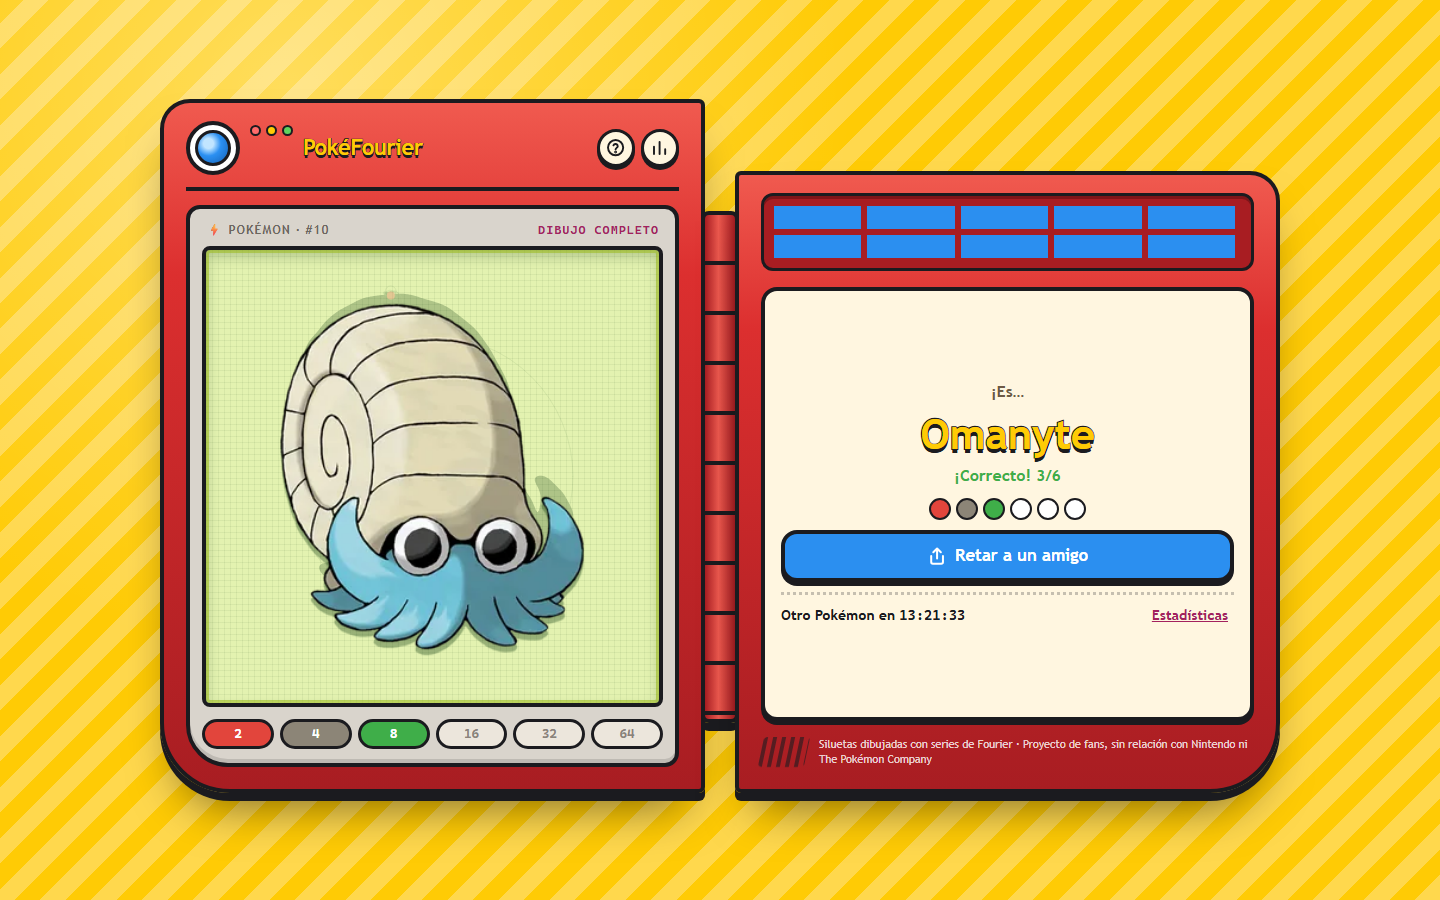
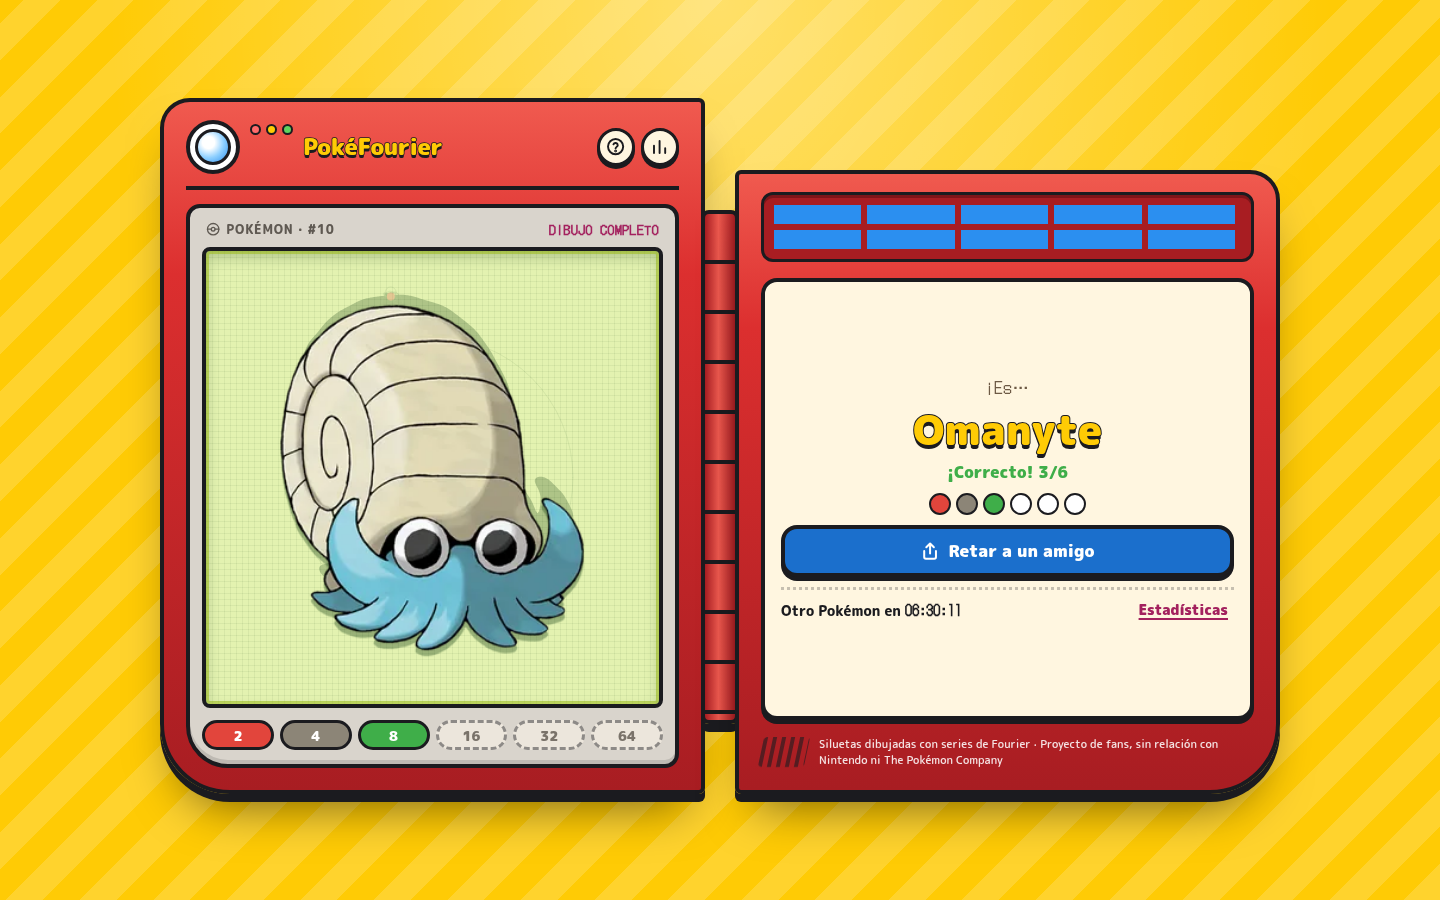
README con el estilo pulido de la Pokédex: capturas y descripción
- Capturas de docs/img/ regeneradas con la Pokédex pulida.
- Nueva sección que describe el estilo: pantallas LCD, lente, escalera,
  botones A/B y fuentes; textos alternativos y escritorio actualizados.

diff --git a/README.md b/README.md
@@ -7,7 +7,7 @@
 Empieza con 2 círculos y cada fallo o salto añade más: 2 → 4 → 8 → 16 → 32 → 64.
 Al acabar se revela el Pokémon y puedes retar a un amigo con tu resultado.
 
-<img src="docs/img/escritorio.png" alt="PokéFourier en escritorio: una Pokédex abierta con la silueta a la izquierda y los mandos a la derecha" width="820">
+<img src="docs/img/escritorio.png" alt="PokéFourier en escritorio: una Pokédex abierta con la silueta a la izquierda y, a la derecha, el buscador, los botones A y B y la pantalla verde del registro" width="820">
 
 </div>
 
@@ -22,6 +22,21 @@ Al acabar se revela el Pokémon y puedes retar a un amigo con tu resultado.
 > usa el mismo motor (contorno → Fourier → epiciclos) con otra personalidad: una Pokédex roja con
 > pantalla LCD verde.
 
+### El estilo: la Pokédex
+
+Una Pokédex roja de dibujos animados, con contornos negros gruesos:
+
+- **Pantalla principal** verde claro con rejilla de píxeles, como un LCD de consola portátil; ahí
+  se dibuja la silueta.
+- **Segunda pantalla** verde oscura para el registro de intentos. En escritorio lista los 6; en el
+  móvil, solo los que ya has hecho.
+- **La lente azul** parpadea cada vez que la pantalla dibuja algo nuevo.
+- **La escalera de círculos** (2 → 64): lo que falta va en trazo discontinuo y el intento actual,
+  en amarillo y algo levantado.
+- **Botones A y B**: el A se enciende cuando hay un Pokémon válido escrito.
+- Letra M PLUS Rounded 1c para el aparato y DotGothic16 (de píxeles) para lo que sale en las
+  pantallas, ambas incluidas en `web/fonts/`.
+
 ---
 
 ## Cómo se juega
@@ -29,7 +44,7 @@ Al acabar se revela el Pokémon y puedes retar a un amigo con tu resultado.
 <table>
   <tr>
     <td align="center" width="33%"><img src="docs/img/movil-inicio.png" alt="Primer intento: un borrón de 2 círculos en la pantalla de la Pokédex" width="240"></td>
-    <td align="center" width="33%"><img src="docs/img/movil-pistas.png" alt="Dos fallos: la silueta con 8 círculos" width="240"></td>
+    <td align="center" width="33%"><img src="docs/img/movil-pistas.png" alt="Dos fallos: la silueta con 8 círculos y los fallos en la pantalla del registro" width="240"></td>
     <td align="center" width="33%"><img src="docs/img/movil-resultado.png" alt="Resultado: se revela el Pokémon sobre su silueta" width="240"></td>
   </tr>
   <tr>
@@ -53,7 +68,8 @@ Al acabar se revela el Pokémon y puedes retar a un amigo con tu resultado.
 ### En escritorio: la Pokédex abierta
 
 A la izquierda la pantalla; a la derecha el buscador, la cruceta, los botones **A** (¡es este!) y
-**B** (saltar) y el registro de fallos. Se juega con el teclado: escribe en cualquier momento,
+**B** (saltar) y la segunda pantalla, verde oscura, con el registro de los 6 intentos (los hechos,
+el de ahora y los que quedan). Se juega con el teclado: escribe en cualquier momento,
 <kbd>Enter</kbd> para responder y <kbd>Esc</kbd> para borrar.
 
 <img src="docs/img/escritorio-resultado.png" alt="Resultado en escritorio con el Pokémon revelado" width="820">
@@ -111,7 +127,7 @@ generaciones basta con cambiar `last` en `[images]`.
 
 ### Diferencias con el juego de países
 
-- Estilos propios en `web/css/` (Pokédex en móvil, libro abierto en escritorio).
+- Estilos propios en `web/css/` (Pokédex en móvil, libro abierto en escritorio) y fuentes en `web/fonts/`.
 - Revelación del arte al acabar (`ui.art` en la colección).
 - Nombre y prefijo de guardado propios (`web/js/app/config.js`, `storage.js`).
 
